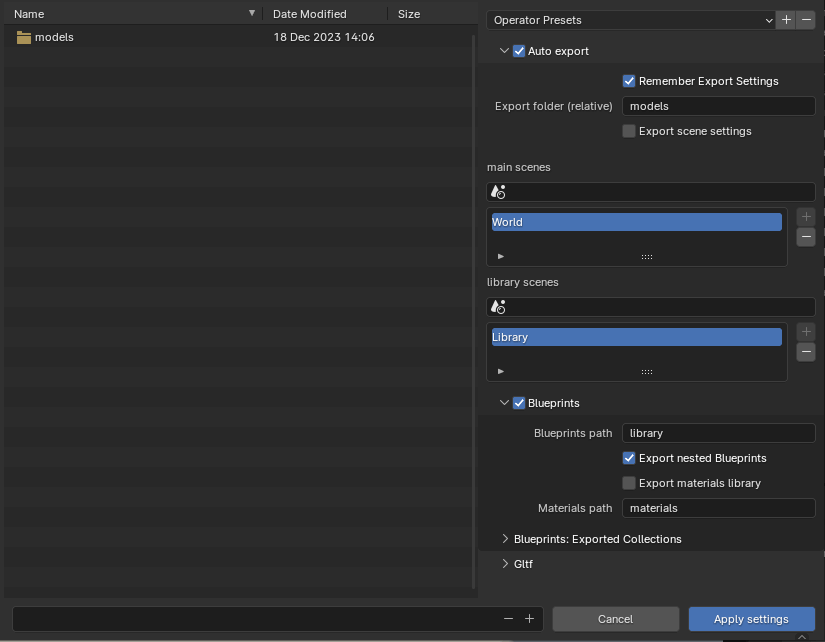
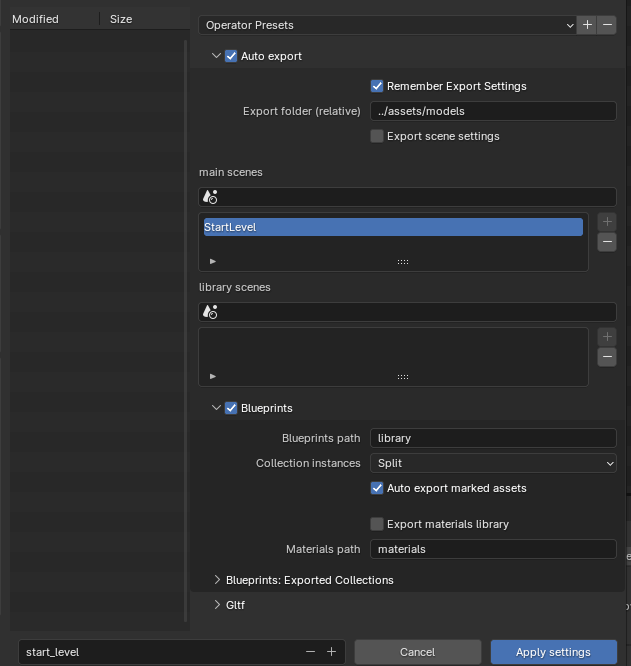
docs(README): updated README  * fleshed out documentation for blender add-on

diff --git a/tools/gltf_auto_export/README.md b/tools/gltf_auto_export/README.md
@@ -28,7 +28,31 @@ This [Blender addon](./)
 
 ![blender addon install](./docs/blender_addon_install2.png)
 
+
+
+
 ## Usage: 
+
+> ***IMPORTANT***
+
+if you have used a version of this add-on prior to v0.9, there was an issue that kept generating orphan (junk) data on every save !
+You can easilly clean up that data 
+
+- go to orphan data:
+
+![purge orphan data](./docs/purge_orphan1_data1.png)
+
+- click on purge
+
+![purge orphan data](./docs/purge_orphan1_data2.png)
+
+- validate
+
+![purge orphan data](./docs/purge_orphan1_data3.png)
+
+
+
+This issue has been resolved in v0.9.
 
 
 ### Basics
@@ -47,7 +71,8 @@ This [Blender addon](./)
     - export scene settings: exports "global"/scene settings like ambient color, bloom, ao, etc 
         
         This automatically generates additional components at the scene level 
-    - pick your main (level) scenes and library scenes (see the chapter about Blueprints below)   
+
+    - pick your main (level) scenes and/or library scenes (see the chapter about [Blueprints](#blueprints) and [multiple Blend filles workflow](#multiple-blend-file-workflow) below)   
         - click in the scene picker & select your scene
 
         ![select scene](./docs/blender_addon_add_scene.png)
@@ -62,12 +87,23 @@ This [Blender addon](./)
 
     - export blueprints: check this if you want to automatically export blueprints (default: True)
     - blueprints path: the path to export blueprints to , relative to the main **export folder** (default: library)
-    - export nested blueprints: check this if you want to automatically export nested blueprints (collection instances inside blueprint collections)
-    as seperate blueprints  (default: True)
-    please read dedicate section below for more information
+    - collection instances: select which option you want to use to deal with collection instances (aka combine mode) (both inside blueprint collections & main collections)
+
+        * split (default, highly recomended) : the addon will 'split out' any nested collections/ blueprints & export them
+        * embed: choose this option if you want to keep everything inside a gltf file (less efficient, not recomended)
+        * embedExternal: this will embed ONLY collection instances whose collections have not been found inside the current blend file
+
+        These options can also be **overridden** on a per collection instance basis: (if you want to split out most collection instances, but keep a few specific ones embeded
+        inside your gltf file)
+            
+        ![combine override](./docs/combine_override.png) 
+
+        - simply add a custom property called **_combine** to the collection instance, and set it to one of the options above
+
+        please read the dedicated [section](#collection-instances--nested-blueprints) below for more information
 
     - export materials library: check this if you want to automatically export material libraries (default: False)
-    please read the dedicated section below for more information
+    please read the dedicated [section](#materials) below for more information
 
         > This only works together with blueprints !
 
@@ -75,7 +111,7 @@ This [Blender addon](./)
 
 * and your standard gltf export parameters in the **gltf** panel
 
-![blender addon use2](./docs/blender_addon_use2.png)
+    ![blender addon use2](./docs/blender_addon_use2.png)
 
 
 * click on "apply settings"
@@ -112,12 +148,19 @@ You can enable this option to automatically replace all the **collection instanc
 
     ![exported collections](./docs/exported_collections.png)
 
+- there are some workflow specificities for multi blend file [workflows](#multiple-blend-file-workflow)
 
-#### Nested blueprints
+#### Collection instances & Nested blueprints
 
 To maximise reuse of meshes/components etc, you can also nest ***collections instances*** inside collections (as normally in Blender), but also export each nested Blueprint as a seperate blueprints.
 
-> Don't forget to toggle the option in the exporter settings 
+> Don't forget to choose the relevant option in the exporter settings (aka **"split"**)
+
+> This replaces the previous "export nested blueprints" checkbox/ option
+
+![instance combine mode](./docs/blender_addon_use4.png)
+
+
 
 - To make things clearer: 
 
@@ -145,8 +188,7 @@ To maximise reuse of meshes/components etc, you can also nest ***collections ins
 
 TLDR: smaller, more reuseable blueprints which can share sub-parts with other entities !
 
-
-#### Materials
+### Materials
 
 You can enable this option to automatically generate a **material library** file that combines all the materials in use in your blueprints.
 
@@ -166,12 +208,12 @@ options in **bevy_gltf_blueprints** for more information on that)
 TLDR: Use this option to make sure that each blueprint file does not contain a copy of the same materials 
 
 
-#### Multiple blend file workflow
+### Multiple blend file workflow
 
 If you want to use multiple blend files, use Blender's asset library etc, we got you coverred too !
 There are only a few things to keep in mind 
 
-##### Assets/library/blueprints files
+#### Assets/library/blueprints files
 - mark your library scenes as specified above, but **do NOT** specify a **main** scene
 - mark any collection in your scenes as "assets" (more convenient) or add the "AutoExport" custom property to the collection
 - choose "split" for the combine mode (as you want your gltf blueprints to be saved for external use)
@@ -179,7 +221,7 @@ There are only a few things to keep in mind
 - anytime you save your file, it will automatically export any relevant collections/blueprints
 - (optional) activate the **material library** option, so you only have one set of material per asset library (recomended)
 
-##### Level/world files
+#### Level/world files
 - mark your main scenes as specified above, but **do NOT** specify a **library** scene
 - configure your asset libraries as you would usually do , I recomend using the "link" mode so that any changes to asset files are reflected correctly
 - drag & drop any assets from the blueprints library (as you would normally do in Blender as well)
@@ -191,7 +233,7 @@ There are only a few things to keep in mind
 Take a look at the [relevant](../../examples/bevy_gltf_blueprints/multiple_levels_multiple_blendfiles/) example for more [details](../../examples/bevy_gltf_blueprints/multiple_levels_multiple_blendfiles/art/) 
 
 
-#### Process
+### Process
 
 This is the internal logic of the export process with blueprints (simplified)
 

diff --git a/crates/bevy_gltf_blueprints/README.md b/crates/bevy_gltf_blueprints/README.md
@@ -283,6 +283,8 @@ https://github.com/kaosat-dev/Blender_bevy_components_workflow/tree/main/example
 
 https://github.com/kaosat-dev/Blender_bevy_components_workflow/tree/main/examples/nested_blueprints
 
+https://github.com/kaosat-dev/Blender_bevy_components_workflow/tree/main/examples/multiple_levels_multiple_blendfiles
+
 
 ## Compatible Bevy versions
 
